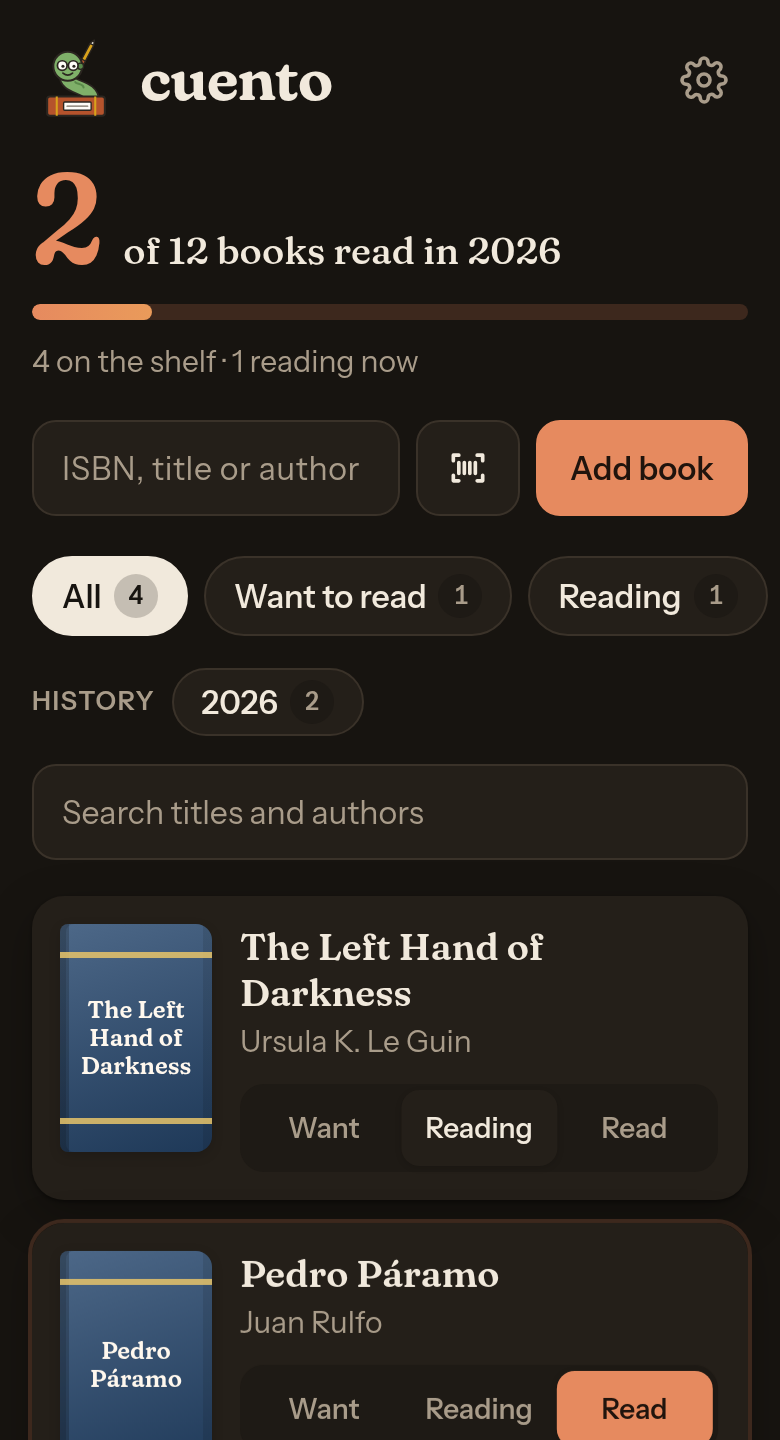
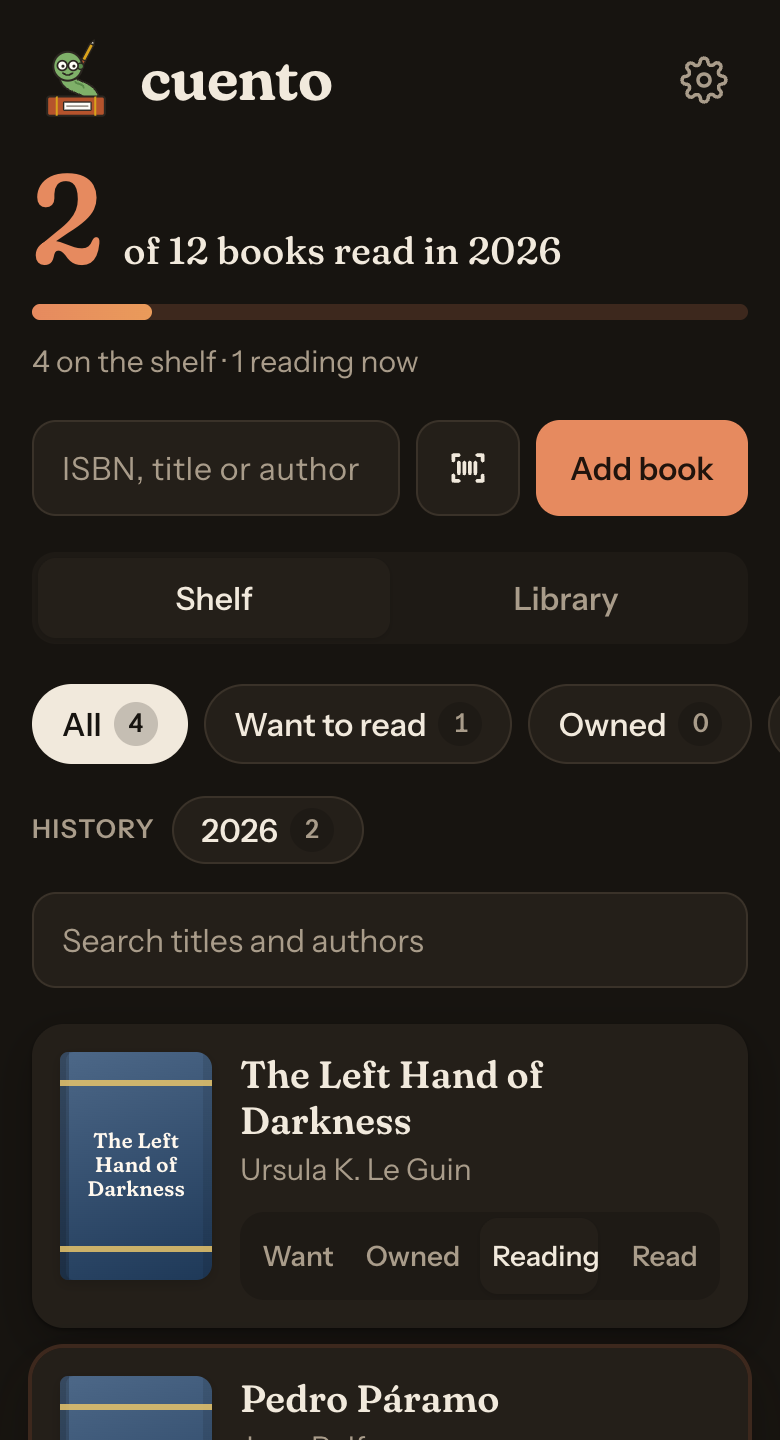
Test and release: 320px phones, offline modules, Where to buy is searches
The status switch overflowed a 320px phone with a book open; its buttons
now tighten there. New tests: the service worker keeps every module, and
the shelf, Library, Settings and Where to buy fit at 320px. The README
says Where to buy gives searches, not prices. Pictures redrawn.

diff --git a/test/unit.test.ts b/test/unit.test.ts
@@ -2,6 +2,7 @@
  * and its offline case, the dates a status brings, imports, and Your
  * library's search and orders. */
 import { test } from 'node:test';
+import { readFileSync, readdirSync, existsSync } from 'node:fs';
 import assert from 'node:assert/strict';
 import { toIsbn13, show } from '../src/isbn.ts';
 import { bookCode } from '../src/scan.ts';
@@ -26,6 +27,9 @@ import {
 } from '../src/shelf.ts';
 import type { Book } from '../src/shelf.ts';
 import { library, matches, sorted, shownDate } from '../src/library.ts';
+
+const SW = new URL('../build/site/app/sw.js', import.meta.url).pathname;
+const SRC = new URL('../src/', import.meta.url).pathname;
 
 test('ISBNs: both lengths, an X check digit, and wrong digits refused', () => {
   assert.equal(toIsbn13('0-306-40615-2'), '9780306406157');
@@ -442,3 +446,18 @@ test('library dates read as dates, unknown ones as a dash', () => {
   assert.equal(shownDate(''), '—');
   assert.equal(shownDate('2026-03-03', 'en-GB'), '3 Mar 2026');
 });
+
+test(
+  'offline: the built service worker keeps every module the app loads',
+  { skip: !existsSync(SW) },
+  () => {
+    const files: string[] = JSON.parse(
+      /^const BUILD = (.*);$/m.exec(readFileSync(SW, 'utf8'))![1]!,
+    ).files;
+    for (const f of readdirSync(SRC))
+      if (f.endsWith('.ts'))
+        assert.ok(files.includes(f.replace(/\.ts$/, '.js')), f + ' is not kept offline');
+    for (const f of ['spark/index.js', 'style.css', 'index.html', 'version.json'])
+      assert.ok(files.includes(f), f + ' is not kept offline');
+  },
+);

diff --git a/test/shopping-browser.test.ts b/test/shopping-browser.test.ts
@@ -105,8 +105,14 @@ test('a location adds nearby links after the online ones', async () => {
   assert.ok(labels.some(l => l.includes('Leeds')));
 });
 
-test('it fits at 390px in light and dark, and only Want books have it', async () => {
-  for (const scheme of ['light', 'dark'] as const) {
+test('it fits at 390px and 320px in light and dark, and only Want books have it', async () => {
+  for (const [scheme, width] of [
+    ['light', 390],
+    ['dark', 390],
+    ['light', 320],
+    ['dark', 320],
+  ] as const) {
+    await page.setViewportSize({ width, height: 844 });
     await page.emulateMedia({ colorScheme: scheme });
     await reveal();
     assert.equal(
@@ -116,7 +122,7 @@ test('it fits at 390px in light and dark, and only Want books have it', async ()
         ),
       ),
       false,
-      scheme + ': Where to buy runs off the screen',
+      `${scheme} ${width}: Where to buy runs off the screen`,
     );
     await page.click('.gear');
     await page.waitForSelector('.shopping');
@@ -126,9 +132,11 @@ test('it fits at 390px in light and dark, and only Want books have it', async ()
         return s.scrollWidth > s.clientWidth;
       }),
       false,
+      `${scheme} ${width}: Settings scrolls sideways`,
     );
     await page.click('.settings .done');
   }
+  await page.setViewportSize({ width: 390, height: 844 });
   for (const status of ['owned', 'reading', 'read']) {
     await page.click(`.book [data-status=${status}]`);
     assert.equal(await page.$('.buy-toggle'), null, status + ' shows Where to buy');

diff --git a/test/shots.ts b/test/shots.ts
@@ -45,6 +45,7 @@ for (const scheme of ['light', 'dark'] as const) {
     viewport: { width: 390, height: 720 },
     deviceScaleFactor: 2,
     colorScheme: scheme,
+    reducedMotion: 'reduce', // no half-faded entrance in the picture
   });
   // A fixed "today", so "read this year" counts the same books every run.
   await page.clock.setFixedTime(new Date('2026-11-13T12:00:00'));
@@ -55,6 +56,7 @@ for (const scheme of ['light', 'dark'] as const) {
   }, BOOKS);
   await page.reload();
   await page.locator('.book').nth(1).locator('.title').click();
+  await page.evaluate(() => scrollTo(0, 0));
   await page.screenshot({ path: 'doc/img/shelf-' + scheme + '.png' });
 }
 await browser.close();

diff --git a/test/browser.test.ts b/test/browser.test.ts
@@ -303,6 +303,9 @@ describe('history and Up next', () => {
     ]);
     assert.equal(await sessions('Dune').nth(0).locator('input').nth(1).inputValue(), '2019-05-01');
     assert.ok(await fits()); // the open book fits a phone
+    await p.setViewportSize({ width: 320, height: 640 });
+    assert.ok(await fits(), 'the open book scrolls sideways at 320px');
+    await p.setViewportSize({ width: 390, height: 844 });
     await p.locator('.years .chip', { hasText: '2019' }).click();
     await p.waitForFunction(() => document.querySelectorAll('.book').length === 1);
     assert.match(await p.locator('.year-card .what').innerText(), /^1 book/);

diff --git a/test/library-browser.test.ts b/test/library-browser.test.ts
@@ -174,6 +174,9 @@ test('it fits a 390px phone with a book open, light and dark', async () => {
     });
     assert.notEqual(bg, ink, scheme + ': a book card is unreadable');
   }
+  await page.setViewportSize({ width: 320, height: 640 });
+  assert.ok(await fits(), 'the library scrolls sideways at 320px');
+  await page.setViewportSize({ width: 390, height: 844 });
   const dark = await page.evaluate(
     () => getComputedStyle(document.querySelector('.volume')!).backgroundColor,
   );

diff --git a/public/style.css b/public/style.css
@@ -1036,6 +1036,12 @@ h1 {
   font-size: 14px;
   transition: color 0.25s ease;
 }
+@media (max-width: 360px) {
+  .seg button {
+    padding: 0 3px; /* four still fit beside a cover on a 320px phone */
+    font-size: 13px;
+  }
+}
 .seg button[aria-checked='true'] {
   color: var(--ink);
 }

diff --git a/TODO.md b/TODO.md
@@ -54,5 +54,5 @@
 
 ## 8. Test and release
 
-- [ ] Cover migration, old exports, acquisition-date transitions, rereading, Up next, sync between versions, offline behaviour and phone layouts.
-- [ ] Leave live prices and stock integrations for a later, separate phase.
+- [x] Cover migration, old exports, acquisition-date transitions, rereading, Up next, sync between versions, offline behaviour and phone layouts.
+- [x] Leave live prices and stock integrations for a later, separate phase.

diff --git a/README.md b/README.md
@@ -108,6 +108,9 @@ Five ideas, a module each, read in this order:
    books are a signal; a computed filters and searches them; spark's keyed
    `each()` keeps one row per book, updated in place.
 
+Where to buy ([src/buy.ts](src/buy.ts)) builds links to searches at the
+stores, not prices or stock: nothing fetches either.
+
 Beyond the page, four more, each a module or two:
 
 - **A year, told as a story** ([src/review.ts](src/review.ts)): pure
